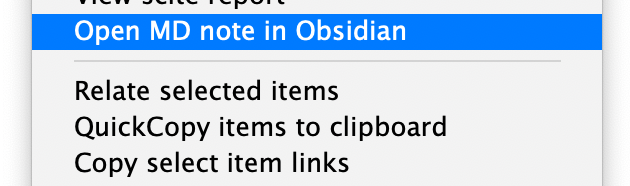
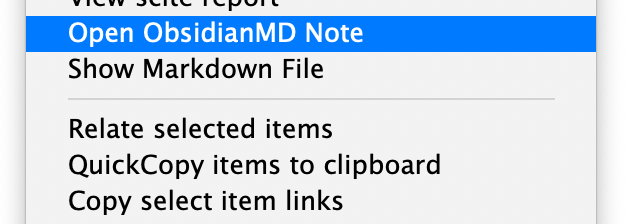
reveal MD note in system explorer, bump version

Changed region(s): [[0.0304, 0.0, 0.9712, 1.0], [0.0911, 0.4301, 0.8802, 0.9677]]

diff --git a/chrome/content/scripts/zoteroobscite.js b/chrome/content/scripts/zoteroobscite.js
@@ -13,7 +13,7 @@ if (typeof Zotero === 'undefined') {
 }
 
 Zotero.ObsCite = {
-    version: '0.0.9',
+    version: '0.0.10',
     folderSep: null,
     cleanrun: true,
     suppressNotifications: false,
@@ -971,7 +971,6 @@ Zotero.ObsCite = {
         const items = Services.wm.getMostRecentWindow("navigator:browser").ZoteroPane.getSelectedItems();
         for (const item of items) {
             if (this.dataKeys.includes(item.id)) {
-                /// NB skipping the subfolder path and hoping that obsidian can resolve the note based on the file name
                 const entry_res = this.data[item.id.toString()];
                 let file = new FileUtils.File(OS.Path.normalize(entry_res.path));
                 if (file.exists()) {

diff --git a/README.md b/README.md
@@ -25,7 +25,7 @@ Opens an existing Markdown note in [Obsidian](https://obsidian.md) from the cont
 - Run Zotero (version 5.x)
 - Go to `Tools -> Add-ons`
 - `Install Add-on From File`
-- Choose the file `zotero-obsidian-citations-0.0.9.xpi`
+- Choose the file `zotero-obsidian-citations-0.0.10.xpi`
 - Restart Zotero
 
 ## Setup
